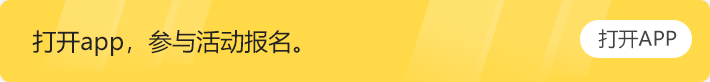
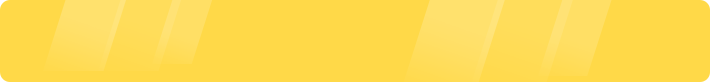
tyc

Changed region(s): [[0.031, 0.3659, 0.4338, 0.6829], [0.8056, 0.2439, 0.9915, 0.7073]]

diff --git a/src/pages/shouquan/index.vue b/src/pages/shouquan/index.vue
@@ -2,7 +2,7 @@
   <div>
     <div class="contain">
       <div class="ueraver">
-        <img src="../../../static/images/shouquan/aver.png" mode="aspectFill" alt srcset>
+        <img src="../../../static/images/shouquan/aver.png" mode="aspectFill" alt srcset />
       </div>
       <div>
         <p class="t1">憨牛随身学</p>
@@ -11,8 +11,13 @@
       <div>
         <!-- <button class="denglu" @getuserinfo="onGotUserInfo" open-type="getUserInfo">授权微信用户信息</button> -->
         <form @submit="subFormId" report-submit="true">
-        <!-- <button type='primary' class="confirm" formType="submit" size='mini'>{{btnmsg}}</button> -->
-        <button formType="submit" class="denglu" @getuserinfo="onGotUserInfo" open-type="getUserInfo">授权微信用户信息</button>
+          <!-- <button type='primary' class="confirm" formType="submit" size='mini'>{{btnmsg}}</button> -->
+          <button
+            formType="submit"
+            class="denglu"
+            @getuserinfo="onGotUserInfo"
+            open-type="getUserInfo"
+          >授权微信用户信息</button>
         </form>
       </div>
     </div>
@@ -20,7 +25,7 @@
 </template>
 
 <script>
-import { setUserinfo } from '@/utils/auth'
+import { setUserinfo } from "@/utils/auth";
 export default {
   components: {
     // card
@@ -31,42 +36,41 @@ export default {
   },
   methods: {
     onGotUserInfo: function(e) {
-      const that=this
+      const that = this;
       if (!e.target.userInfo) {
         console.log("用户拒绝授权");
         return false;
       }
       //保存基本信息在本地
-       setUserinfo(e.target.userInfo);
+      setUserinfo(e.target.userInfo);
       //d登录
       wx.login({
         success: function(res) {
+          debugger;
           console.log(res.code);
           if (res.code) {
-           
-             that.$api.chengx.getUserOpenId({
-            code:res.code
-            }).then(res => {
-              console.log(res);
-              const options=Object.assign(e.target.userInfo,res)
-               // //登录获取token
-            that.$store.dispatch("LoginByWX", options).then(res => {
-              debugger;
-            });
-              
-            })
-            .catch(error => {
-              wx.showToast({
-                title: "网络异常",
-                icon: "none",
-                duration: 1000
+            that.$api.chengx
+              .getUserOpenId({
+                code: res.code
+              })
+              .then(code => {
+                console.log(code);
+                const options = Object.assign(e.target.userInfo, code);
+                // //登录获取token
+                that.$store.dispatch("LoginByWX", options).then(wx => {
+                });
+              })
+              .catch(error => {
+                wx.showToast({
+                  title: "网络异常",
+                  icon: "none",
+                  duration: 1000
+                });
               });
-            });
           }
         }
       });
-       //提交用户信息到服务器
-      
+      //提交用户信息到服务器
 
       this.$api.user
         .upUserInfo(e.target.userInfo)

diff --git a/src/utils/auth.js b/src/utils/auth.js
@@ -1,8 +1,8 @@
 const TokenKey = 'Admin-Token'
-const Userinfo='user_info'
-const appToken='app_Token' //oem小程序标识
-const userPhone='userPhone'//手机号
-const searchKey='historyKey'//搜索关键字
+const Userinfo = 'user_info'
+const appToken = 'app_Token' //oem小程序标识
+const userPhone = 'userPhone' //手机号
+const searchKey = 'historyKey' //搜索关键字
 
 //存取token到本地--->本地缓存
 export function getToken() {
@@ -10,10 +10,10 @@ export function getToken() {
 }
 
 export function setToken(token) {
- try {
-    return wx.setStorageSync(TokenKey,token)
+  try {
+    return wx.setStorageSync(TokenKey, token)
   } catch (e) {
-    return this.setstorage(TokenKey,token)
+    return this.setstorage(TokenKey, token)
   }
 }
 export function removeToken() {
@@ -25,10 +25,10 @@ export function getHistory() {
 }
 
 export function setHistory(keylist) {
- try {
-    return wx.setStorageSync(searchKey,keylist)
+  try {
+    return wx.setStorageSync(searchKey, keylist)
   } catch (e) {
-    return this.setstorage(searchKey,keylist)
+    return this.setstorage(searchKey, keylist)
   }
 }
 export function removeHistory() {
@@ -40,11 +40,11 @@ export function getAppToken() {
 }
 
 export function setAppToken(token) {
-  
- try {
-    return wx.setStorageSync(appToken,token)
+
+  try {
+    return wx.setStorageSync(appToken, token)
   } catch (e) {
-    return this.setstorage(appToken,token)
+    return this.setstorage(appToken, token)
   }
 }
 //存取用户手机号码--->本地缓存
@@ -53,27 +53,27 @@ export function getUserPhone() {
 }
 
 export function setUserPhone(phone) {
-  
- try {
-    return wx.setStorageSync(userPhone,phone)
+
+  try {
+    return wx.setStorageSync(userPhone, phone)
   } catch (e) {
-    return this.setstorage(userPhone,phone)
+    return this.setstorage(userPhone, phone)
   }
 }
 
 //存取用户信息--->本地缓存
 export function getUserinfo() {
-    return wx.getStorageSync(Userinfo)
+  return wx.getStorageSync(Userinfo)
+}
+
+export function setUserinfo(info) {
+  try {
+    return wx.setStorageSync(Userinfo, info)
+  } catch (e) {
+    return this.setstorage(Userinfo, info)
   }
-  
-  export function setUserinfo(info) {
-   try {
-      return wx.setStorageSync(Userinfo,info)
-    } catch (e) {
-      return this.setstorage(Userinfo,info)
-    }
-  }
-  
-  export function removeUserinfo() {
-    return wx.removeStorageSync(Userinfo)
-  }
+}
+
+export function removeUserinfo() {
+  return wx.removeStorageSync(Userinfo)
+}

diff --git a/src/components/openapp.vue b/src/components/openapp.vue
@@ -5,7 +5,7 @@
       style="background-image:url(../../../../static/images/index/openapp.png)"
     >
       <div class="opentext">打开app，参与活动报名。</div>
-      <button class="openbtn">打开APP</button>
+      <div class="openbtn">打开APP</div>
     </div>
   </div>
 </template>
@@ -22,17 +22,26 @@ export default {
 </script>
 
 <style>
-.openbtn{
-    width: 55px;
-    
+.openbtn {
+  width: 55px;
+  height: 20px;
+  background-color: #fff;
+  border-radius: 10px;
+  font-size: 10px;
+  font-weight: 400;
+  color: rgba(67, 67, 67, 1);
+  margin-right: 15px;
+  text-align: center;
+  line-height: 20px;
 }
 .opentext {
   font-size: 12px;
   font-weight: 400;
   color: rgba(34, 34, 34, 1);
+  padding-left: 15px;
 }
 .openbox {
-  position: absolute;
+  position: fixed;
   width: 100%;
   height: 60px;
   padding: 10px;
@@ -44,6 +53,7 @@ export default {
   width: 100%;
   height: 100%;
   display: flex;
+  align-items: center;
   justify-content: space-between;
   background: no-repeat center center;
   background-size: cover;

diff --git a/src/pages/index/activity/detail/index.vue b/src/pages/index/activity/detail/index.vue
@@ -248,12 +248,17 @@
       <img src="../../../../../static/images/index/more.png" alt />
       点击查看完整榜单
     </div>
+    <openapp></openapp>
   </div>
 </template>
 
 <script>
+
+import openapp from "@/components/openapp";
 export default {
-  components: {},
+  components: {
+    openapp //轮播
+  },
 
   data() {
     return {
@@ -269,7 +274,6 @@ export default {
 </script>
 
 <style>
-
 .all_rank {
   height: 120px;
   padding: 25px 25px 60px;

diff --git a/src/store/modules/user.js b/src/store/modules/user.js
@@ -90,12 +90,8 @@ const user = {
                 data:JSON.stringify({})
 
               }
-              debugger
-              // console.log(qs.stringify(params))
-              debugger
               chengx.getToken(params).then((res) => {
                 console.log(res);
-                debugger
 								if(+res.code === 1) {
                   //保存token
                  debugger
